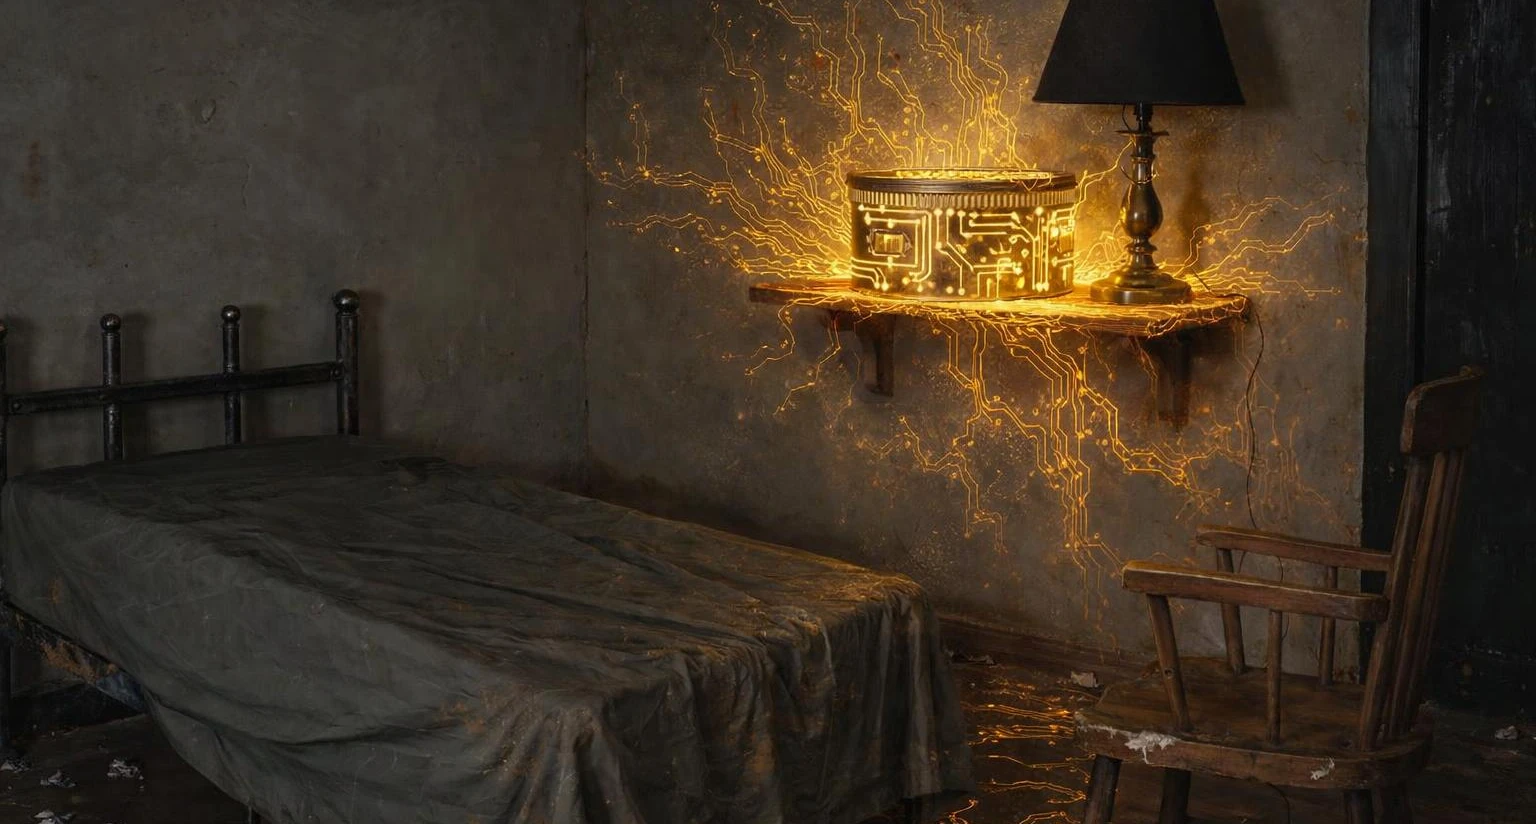
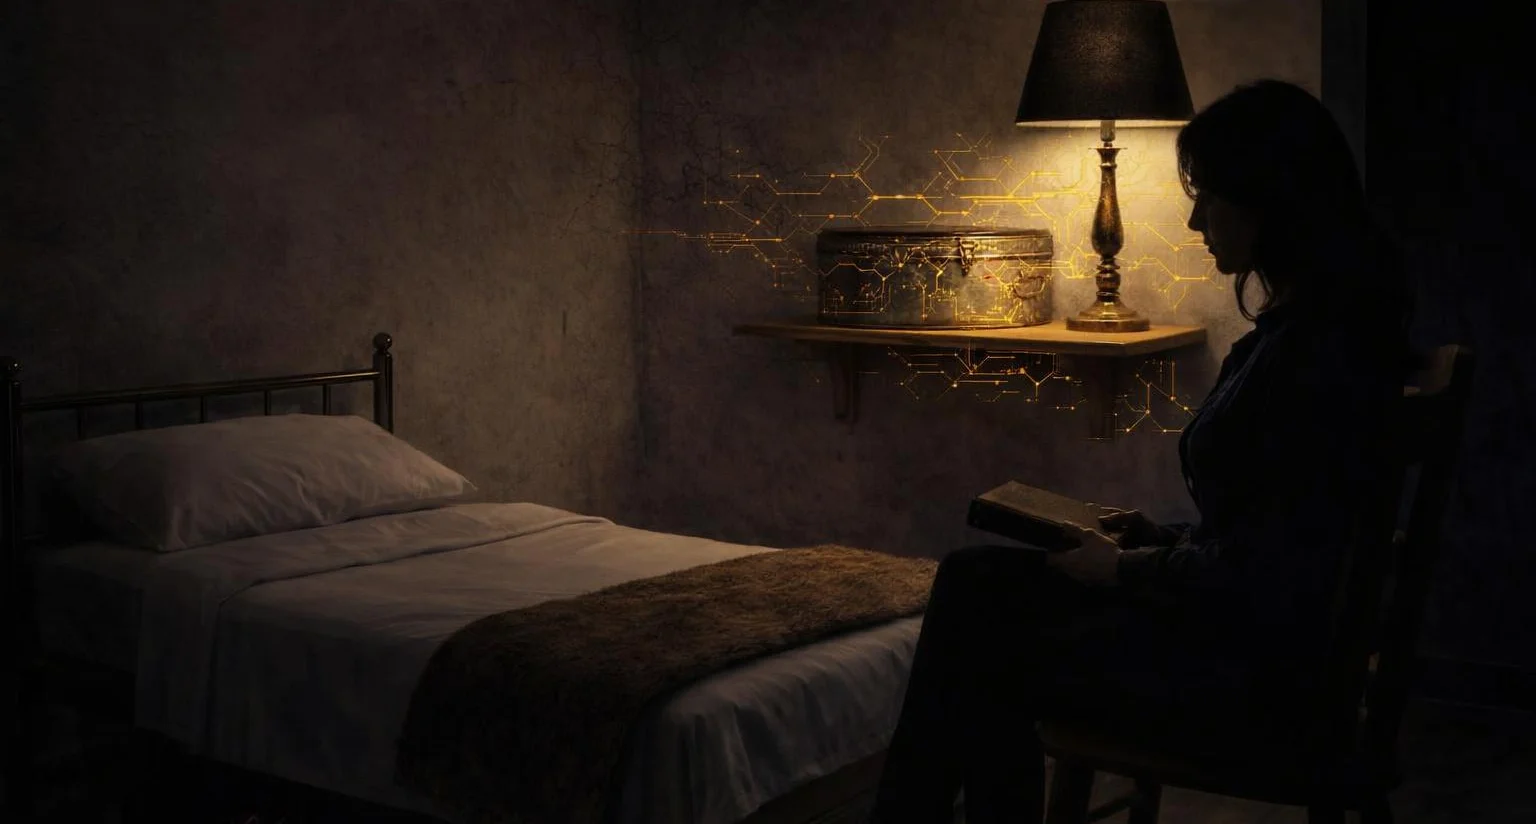
fix(images): add scene-07 placeholder, convert scene-08 to WebP, fix scene-09 filename
Adds a dark placeholder WebP for scene-07-stillness (pending real art),
converts scene-08-empty-v2.jpg to scene-08-return.webp, renames the
mismatched scene-09-return.webp to scene-09-device.webp, and re-adds
the imageless preload guard for resilience.

diff --git a/src/app.js b/src/app.js
@@ -80,7 +80,9 @@ function collectAudioSrcs(frames) {
 }
 
 function preloadAssets(app) {
-  const imagePromises = app.frames.map((frame) => preloadImage(frame.image));
+  const imagePromises = app.frames
+    .filter((frame) => frame.image)
+    .map((frame) => preloadImage(frame.image));
   const audioPromises = [...collectAudioSrcs(app.frames)].map((src) =>
     preloadAudio(src).then((loaded) => {
       if (loaded) app.availableAudio.add(loaded);
